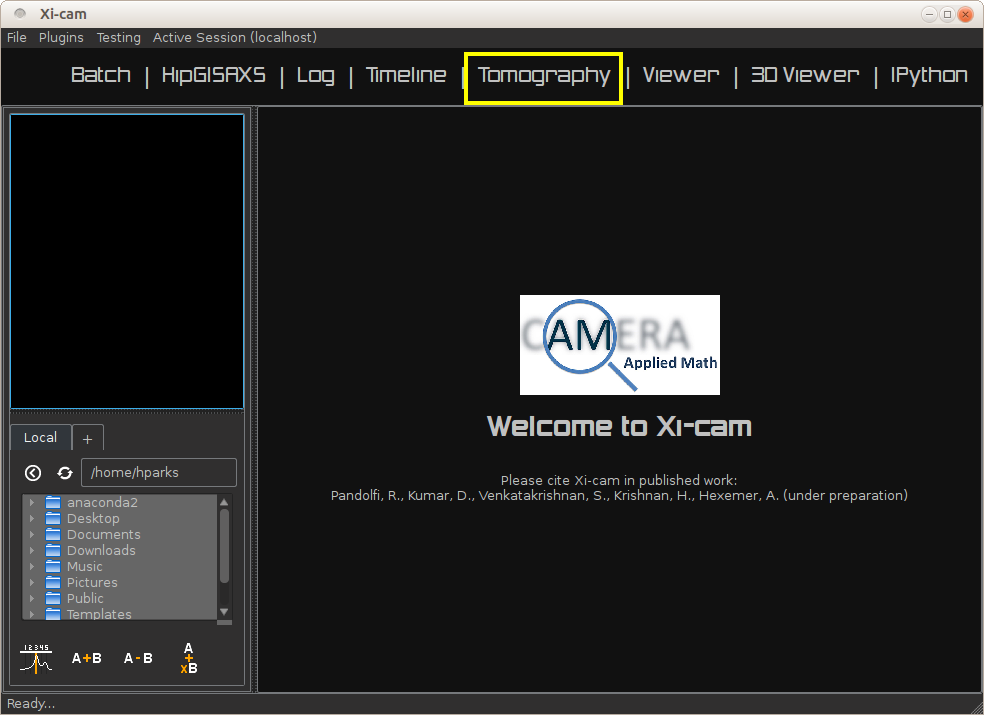
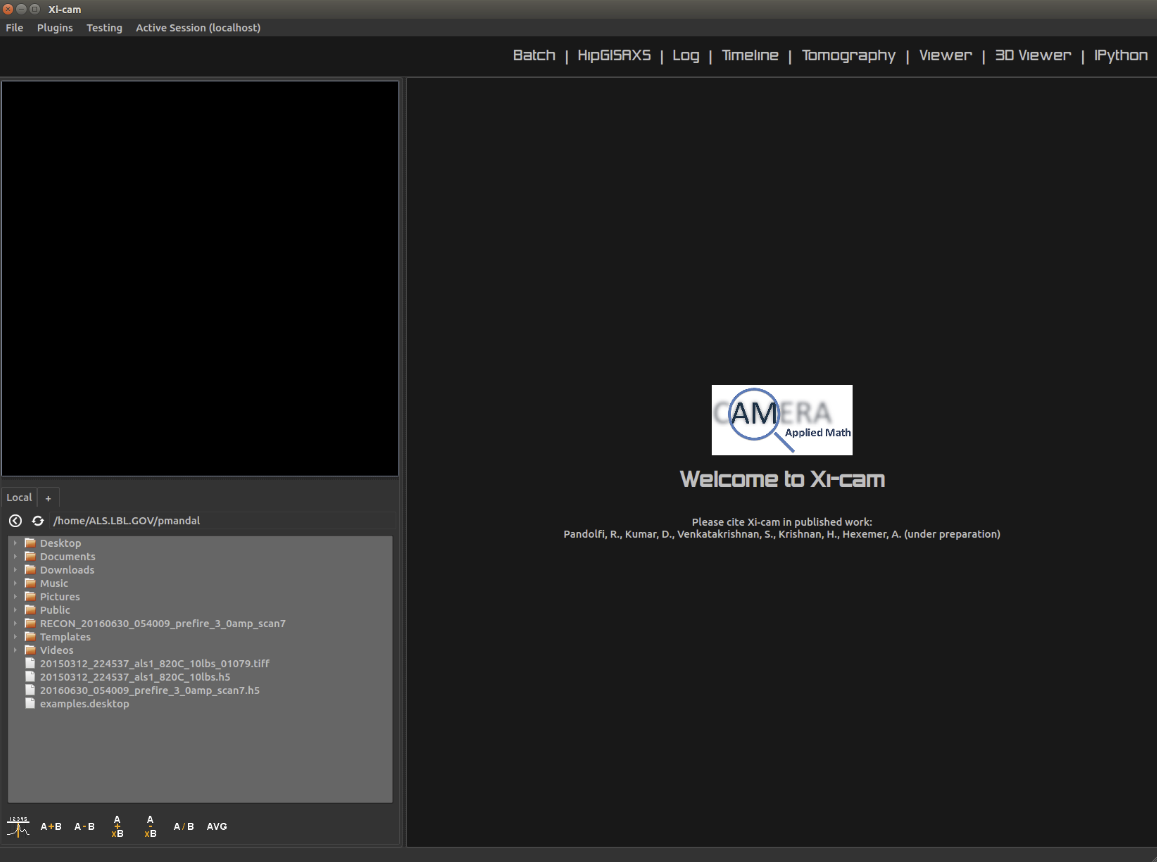
changed plugin user tutorial to more updated version

Changed region(s): [[0.0, 0.0, 1.0, 1.0]]

diff --git a/doc/source/pluginUserTutorial.rst b/doc/source/pluginUserTutorial.rst
@@ -1,7 +1,7 @@
 Plugin User Tutorials
 =====================
 
-Xi-Cam supports a number of different plugins to analyze a variety of synchrotron data. This section provides short
+Xi-cam supports a number of different plugins to analyze a variety of synchrotron data. This section provides short
 tutorials for using some of these plugins.
 
 Tomography
@@ -15,170 +15,188 @@ the ``TomoPy`` Python library for its processing. With the tomography plugin, yo
 * View a 3D image of the reconstructed data
 * Run a full reconstruction, with control over the functions and parameters used in the reconstruction
 
-Opening and Viewing Data
-^^^^^^^^^^^^^^^^^^^^^^^^
+Plugin Layout
+^^^^^^^^^^^^^
+
+Upon opening Xi-cam, you will be greeted with a default screen. Click on the tomography plugin in the top toolbar.
 
 .. image:: images/tomography_1.png
     :width: 900 px
 
-Above is a screenshot of the Xi-Cam application immediately after opening. To use the tomography plugin, click on the
-top tab reading "Tomography."
+
+These are the main panels and toolbars that are visible in the tomography plugin (see image :ref:`opening_screen`
+below):
+
+* Left panel, tab 1: **file browser**. If you click on a file, a thumbnail appears in the upper left panel. If you
+  double-click a file, it will be loaded (see :ref:`filebrowser`)
+* Left panel, tab 2: **workflow editor**. This shows the sequence of processing steps that will be applied to an input
+  data set (see :ref:`workflow_editor`)
+* Left panel, tab 3: **computer parameters settings**. Shows the dimensions of the data set and how the data is to be
+  divided during a reconstruction.
+* Left panel, tab 4: **metadata viewer**. Shows the metadata for the currently loaded data set
+* Center upper panel: shows different views and previews of the raw data and tomographic reconstruction
+  (see:ref:`main_viewing_panel`)
+* Center lower panel: shows a log for various processes
+* Center top: **toolbar** with buttons to run and preview reconstructions and to open the manual center of rotation
+  detection overlay module (see :ref:`toolbar`)
+
+In most cases, the bar separating any two components can be dragged to resize the window.
+
+.. _opening_screen:
 
 .. image:: images/tomography_2.png
     :width: 900 px
 
-The left window of the plugin has a file browser. You'll notice that on the left window, just below the ``Batch``
-plugin, are three tabs. The first is a "folder" tab, the second is a "function" tab related to the ref:`reconstruction`
-process, and the third is a metadata tab. To actually load the sample, we need the first (folder) tab. The plugin opens
-with this tab by default.
+
+
+.. _filebrowser:
+
+Opening and Viewing Data
+^^^^^^^^^^^^^^^^^^^^^^^^
+
+From the file browser tab, double click an hdf5 file to load it. An hdf5 input file can also be dragged from the system
+file browser/explorer/finder window onto the central panel in the tomography plugin and it will be loaded. If you have
+a NERSC account and access to data on SPOT Suite, you may log in to preview the data, though you can not load it into
+Xi-cam.
+
+All available metadata for the file is displayed in the metadata viewer panel (4th tab on the left panel).
+
+.. _workflow_editor:
+
+Interacting with the Workflow Editor
+^^^^^^^^^^^^^^^^^^^^^^^^^^^^^^^^^^^^
+
+The workflow editor shows a series of functions or operations that will be applied to the input data. New functions can
+be added by clicking the “+” button at the bottom of the workflow editor tab. Functions can be re-ordered by selecting
+a given function and clicking the up or down arrow button at the bottom of the workflow editor tab. Functions can be
+removed by clicking the “X” button to the right of each function. For quickly allowing testing of the effect of
+different functions, to the left of each function is a box that is either blank or has a check in it--that function is
+only carried out if the box is checked. The box can be checked or un-checked by clicking on it.
 
 .. image:: images/tomography_3.png
-    :width: 800 px
+    :width: 900 px
+
+
+When you click on a function, the adjustable parameters corresponding to that function appear in the top left panel.
+If a user wants to test a range of values for a given parameter, this can be done by right clicking on the name of the
+parameter of choice (on the words), and selecting “test parameter range” from the contextual dropdown menu that
+appears. This will open a window where the user can select a minimum and maximum value and a step size. At that point,
+preview reconstructions will be carried out with each of the values in that range.
+
+By default, a standard pipeline appears in the workflow editor. Some commonly used functions are included in this
+default pipeline but are unchecked by default--they are there so that they can be easily added if so desired.
+
+Some functions have required sub-functions, with parameters of their own. The sub-functions of a function appear below
+it when you click on that function.
+
+Some functions can operate on multiple possible variables in memory. One of the parameters for these functions is the
+array to operate on. For the functions that operate along a particular axis of a 3d matrix, the dimension along
+which to operate is also a parameter to select.
+
+A brief description of each function in the default pipeline is given below; more details on many of the functions can
+be found in the tomopy or dxchange documentation pages.
+
+* **Normalization** :The tomopy function is used. Briefly, this function subtracts the median dark field from all other
+  images, then divides each sample image by the bright field (or “flat field”) image taken closest in time to it.
+
+* **Outlier removal**: Meant to remove “zingers” (when x-rays directly hit the camera). This function performs a median
+  filter of a selected sigma on pixels more than a selected threshold away from their neighbors.
+
+* **Negative logarithm**: Converts %Transmission images to absorption scale
+
+* **Fourier-wavelet stripe removal**: Removes vertical stripes from sinograms (removing rings from the reconstruction)
+
+* **Pad**: Adds pixels at the boundaries, this removes artifacts that would otherwise appear near the borders of images
+  during reconstructions.
+
+* **Reconstruction**: Performs tomographic reconstruction with selectable fourier filter; default sub-functions are the
+  angular range (which is automatically populated based on metadata) and the automatic center-of-rotation detection.
+
+* **Crop**: Reverses the effects of padding, but can also be set to do additional cropping.
+
+* **Array operation**: By default, divides by the pixel size in cm to yield voxel values in units of absorption per cm.
+
+* **Circular mask**: Masks out the corners of the reconstruction, which generally have low-quality data with artifacts.
+
+* **Ring removal**: Ring removal based on stripe removal in a polar transform of the reconstructed data
+
+* **Convert**: Converts from the default 32 bit floating point number format in the reconstruction to 8 bit. The user
+  must select appropriate minimum and maximum to appropriately fill the 8bit dynamic range. This can be done by viewing
+  the pixel values in the preview reconstruction.
+
+* **Write tiffs**: Writes tif files to disk. User can select parent folder and filename. By default, these are the input
+  file’s parent folder and a filename based on the input filename.
+
+.. _main_viewing_panel:
+
+Main Viewing Panel
+^^^^^^^^^^^^^^^^^^
+
+Each data set that is opened shows up as a tab within the central main viewer panel. For each open data set, along the
+bottom of that central panel there are a series of tabs showing different views of the data. The first tab shows the
+raw data. To see different projection angles, users can either move the slider bar along the bottom of the image, or
+they can type the number of the projection they want to view in the small number box at the bottom right. Along the
+right side of the screen is a colormap editor which allows the user to adjust brightness and contrast and the colormap.
+Use the mouse scroll wheel to zoom in and out, and click and drag the image to pan.
+
+At the bottom of the viewer panel is a display of the current x and y position of the cursor with respect to the image
+boundary, as well as the value of the pixel under the cursor.
+
 .. image:: images/tomography_4.png
-    :width: 800 px
+    :width: 900 px
 
 
-With the folder tab clicked, you can look through your files to select a data set. Clicking once on any data set will
-display a preview. Double clicking the file, or dragging its icon into the center window, will open the image. The
-third tab on the left window, the metadata tab, will automatically be populated with information about the sample. On
-the bottom of the center window, you may choose between a "Projection View," which shows projection images of the data,
-or a "Sinogram View," which shows sinograms of the data. You can scan through either set of data using the timeline
-bar, located just below the images.
+The second tab is the sinogram viewer. This operates in a similar way to the projection viewer.
 
 .. image:: images/tomography_5.png
     :width: 900 px
 
-The sample loaded above is of a plant stem. On the right of the data is a vertical bar. Adjusting either the top or
-bottom tick on this bar adjusts the light/dark contrast (respectively) of the data.
+
+**Important Note**: when a preview reconstruction is run, it will be run on the slice that is selected at that time in
+the sinogram view.
+
+The third tab is the preview reconstruction slice view. Most of this panel operates the same as the others. When
+multiple previews are generated, they become a stack in this view which again can be scrolled through with the bar
+along the bottom or by typing a number into the box in the bottom right. For each preview slice, the image shows up in
+the right half of the panel, and the parameters used in the pipeline to generate that slice show up in the left half of
+the panel. At the bottom of this parameter display portion, there is a checkmark button and an x button. The x button
+clears that preview from the display. The checkmark button sets the pipeline to use all the parameters as they were
+used for that preview. NOTE: when you click the checkmark, if there were functions in the pipeline that were unchecked,
+they will be removed from the pipeline completely; they can always be re-added.
+
+Only 10 preview reconstructions are kept in memory, older ones are automatically deleted as more than 10 are added.
+
+.. _toolbar:
+
+Toolbar
+^^^^^^^
+
+The first button on the toolbar is a “run reconstruction” button, which will run a reconstruction of the full data set
+with the currently selected parameters.
+
+The second button is a “preview slice” button. Clicking this will run the pipeline on a single slice
+which is selected in the sinogram view (by default, this is the slice at the halfway point in the stack).
 
 
-Slice and 3D Previews
-^^^^^^^^^^^^^^^^^^^^^
+The third button is the “preview 3d” button, which will run a reconstruction of a downsampled version of the whole
+data set.
 
-The tomography plugin allows you to explore reconstruction previews before running full reconstructions, which are much
-more time-consuming.
+The fourth button is a button to run an “MBIR reconstruction”, which is currently under construction. When complete,
+it will submit reconstruction jobs to NERSC, which will use a model-based iterative reconstruction (MBIR)
+method to perform the reconstruction.
 
-.. image:: images/tomography_6.png
-    :width: 900 px
-
-Next to the "Projection View" and "Sinogram View" tabs are the "Slice Preview" and "3D Preview" tabs. These tabs are
-not initially populated. At the top of the center window, just below the tabs for other plugins, are four buttons - see
-above figure. The four buttons are: a green arrow (runs reconstructions), a pair of blue glasses (runs a slice
-preview), a pair of red and blue glasses (runs a 3D preview), and a wheel (a tool to assist in finding reconstruction
-parameters - see :ref:`center_detection`).
-
-.. image:: images/tomography_7.png
-    :width: 900 px
-
-
-Clicking the "slice preview" glasses will compute a reconstruction on a single slice of the data. It uses functions in
-the reconstruction function pipeline (see :ref:`pipeline`) to perform this reconstruction. When the preview is
-finished, it is displayed in the "Slice Preview" tab. To the left of the image is a list of functions and parameters
-used in the calculations (in the image above, this list is partially hidden and must be expanded). If you run more
-previews with different parameters, the previews will "stack" in the "Slice Preview" viewer tab. Below the slice
-preview image is another timeline bar which allows you to scan through your different previews.
-
-.. image:: images/tomography_8.png
-    :width: 900 px
-
-Clicking the "3D preview" glasses will compute a 3D preview of the data. This computation, like the slice preview,
-also uses the reconstruction function pipeline. when the preview is finished, it is displayed in the center window.
-To its left are the functions and parameters used in the reconstruction.
-
-Note that to the right of both the slice and 3D previews are vertical bars which adjust the contrasts of the previews.
-
-.. _reconstruction:
-
-Reconstructions
-^^^^^^^^^^^^^^^
-
-.. _pipeline:
-
-Function pipeline
-"""""""""""""""""
-
-
-.. image:: images/tomography_9.png
-    :width: 900 px
-
-The first button on the toolbar just above the data, the green arrow, will run a reconstruction using functions in the
-"function pipeline." *The function pipeline is a series of functions performed on the raw tomography data*, the end
-result of which is the reconstructed data. Clicking the second tab (the "f(x)" tab) on the left window will bring up
-the pipeline, as shown above.
-
-
-.. image:: images/tomography_10.png
-    :width: 900 px
-
-Clicking on a function will bring up the parameters that may be adjusted during the reconstruction (note
-that not all functions will have such parameters). Functions can be turned on or off by clicking the "eye" to the left
-of the function names (open/closed eye means function is on/off, respectively). Some functions, such as the
-"Ring Removal (Polar Mean Filter)" and the "Convert Data Type" functions, are disabled by default.
-
-.. image:: images/tomography_11.png
-    :width: 900 px
-
-The order of the functions in the pipeline may also be adjusted by clicking on a function and clicking the "up" or
-"down" arrows at the bottom of the left window. The leftmost button at the bottom of the left window allows users to
-add functions to the pipeline. The fourth button in this collection of buttons allows the user to open a saved pipeline,
-save the current pipeline, or revert to the default pipeline. The final button, a trash can, clears the function
-pipeline of all functions.
-
-.. _data_params:
-
-Dataset parameters
-""""""""""""""""""
-
-.. image:: images/tomography_12.png
-    :width: 900 px
-
-The right window of the plugin contains other parameters important to the reconstruction. The "Start Sinogram,"
-"End Sinogram," and "Step Sinogram" pertain to the sinogram data: the reconstruction will begin at the "Start Sinogram"
-image and end at the "End Sinogram" image in steps of size "Step Sinogram." The same is true of the "Start Projection,"
-"End Projection," and "Step Projection" fields and how they pertain to the raw projection data. When a reconstruction is
-performed, the dataset is often large enough that the computer doing the reconstruction will run out of memory if it
-attempts to go through the data all at once. Therefore, the reconstruction is done in chunks of size "Sinograms/Chunk."
-The field "CPU Cores" may one day be used for multithreading this chunked reconstruction process, but at this point has
-no effect on the reconstruction.
-
-*Most users will not need to change any parameters on the right window.*
-
-.. _center_detection:
-
-Center detection
-""""""""""""""""
-
-.. image:: images/tomography_13.png
-    :width: 900 px
-
-
-By default, tomography plugin uses a TomoPy function to automatically detect the center of rotation (COR) of the data.
-This value is used in the function pipeline during the reconstruction. In the event that the automatic detection gives
-lackluster results, it is possible to manually find the COR. To do so, first click the "wheel" tab in the toolbar, as
-highlighted in the image above.
-
-.. image:: images/tomography_14.png
-    :width: 900 px
-
-The tab opens a window which shows the first image in the data set overlaid with a mirrored image of the last image in
-the data set. For tomography data that spans a 180 degree rotation, these images should be nearly identical aside from
-some horizontal offset related to the location of the COR. This feature allows you to manually find this horizontal
-offset.
-
-Shown above is the default setup. Note the "Rotation Center" field above the image, and the "center" field highlighted
-on the function pipeline. The "center" value is a parameter of the "Reconstruction" function in the pipeline, so you
-must click this function to see this parameter on the pipeline.
-
-.. image:: images/tomography_15.png
-    :width: 900 px
-
-
-To find the COR, you can drag one image horizontally until these two images match. The "Rotation Center" field above
-the image will change automatically. If you click the green check-mark to the right of "Rotation Center," this COR value
-will be loaded into the "Reconstruction" function in the pipeline - see highlighted "center" value in the pipeline. Now
-when you run a reconstruction, this new value will be used *provided that you turn off the automatic COR detection*
-*function in the function pipeline.* In the default pipeline, this function is a subfunction of "Reconstruction" and is
-named "Center Detection (Phase Correlation)."
+The fourth button turns on a special overlay mode in the projection view. This can be useful for manually looking for
+the center of rotation in a data set. By default, an automatic center-of-rotation detection function is included as a
+subfunction to the tomographic reconstruction function in the workflow. In some cases this fails. If this is the case,
+the automatic center-of-rotation detection function should be unchecked, and the overlay mode button can be clicked to
+find the appropriate value manually. In overlay mode, the selected projection (by default, the first projection) is
+overlaid with a horizontally flipped version of the final projection. This is done because we assume data sets are
+collected over a range of 180 degrees; finding the necessary translation to get perfect overlap between the image at 0
+degrees and the flipped image at 180 degrees will yield the center of rotation. In overlay mode, the overlayed image
+can be dragged left or right to find the best overlap, or the left and right arrows can be used to move the overlay one
+pixel at a time. Once the optimal overlap is found, click the checkmark box at the top of the panel next to the center
+of rotation value--this will populate the center of rotation input parameter to the reconstruction with the value based
+on the overlay. **Remember to turn off the automatic center of rotation detection in this case**.
 
 
 ViewerRMC
@@ -187,7 +205,7 @@ ViewerRMC
 The ViewerRMC plugin is a graphical environment for viewing SAXS raw data and using the HipRMC algorithm to construct
 images of the original object. It displays the output of the HipRMC algorithm in a timeline viewer, and writes the
 parameters and output images into a folder. *Note that using the HipRMC algorithm requires the HipRMC executable to be*
-*located in the top Xi-cam directory*.
+*located in the top Xi-Cam directory*.
 
 
 
